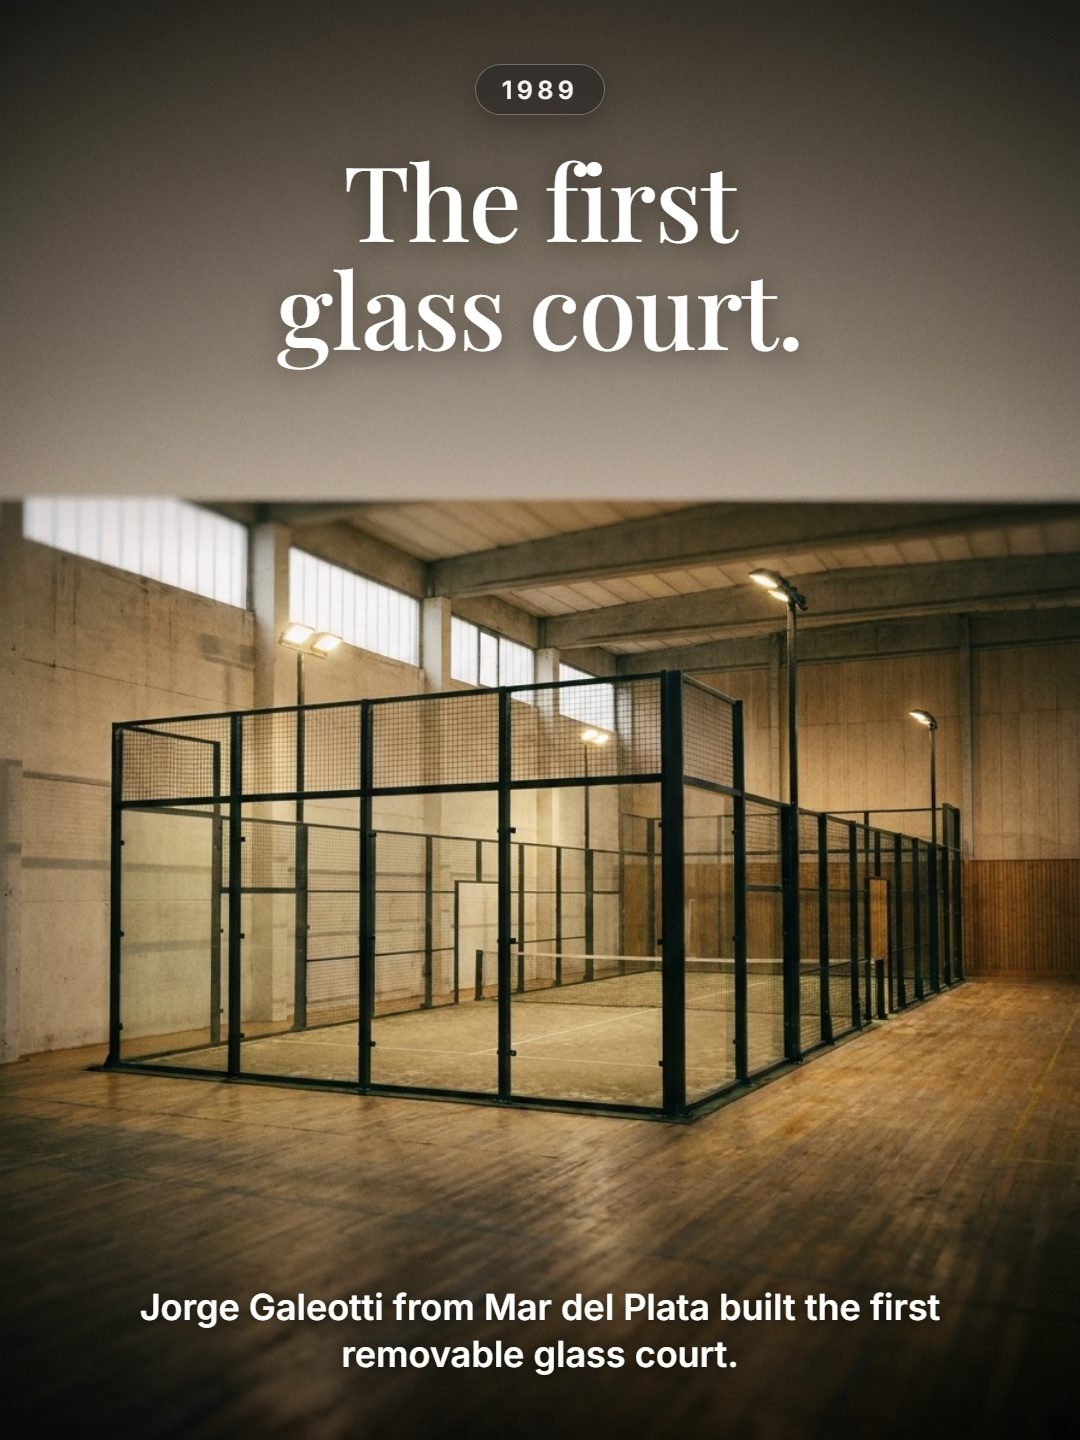
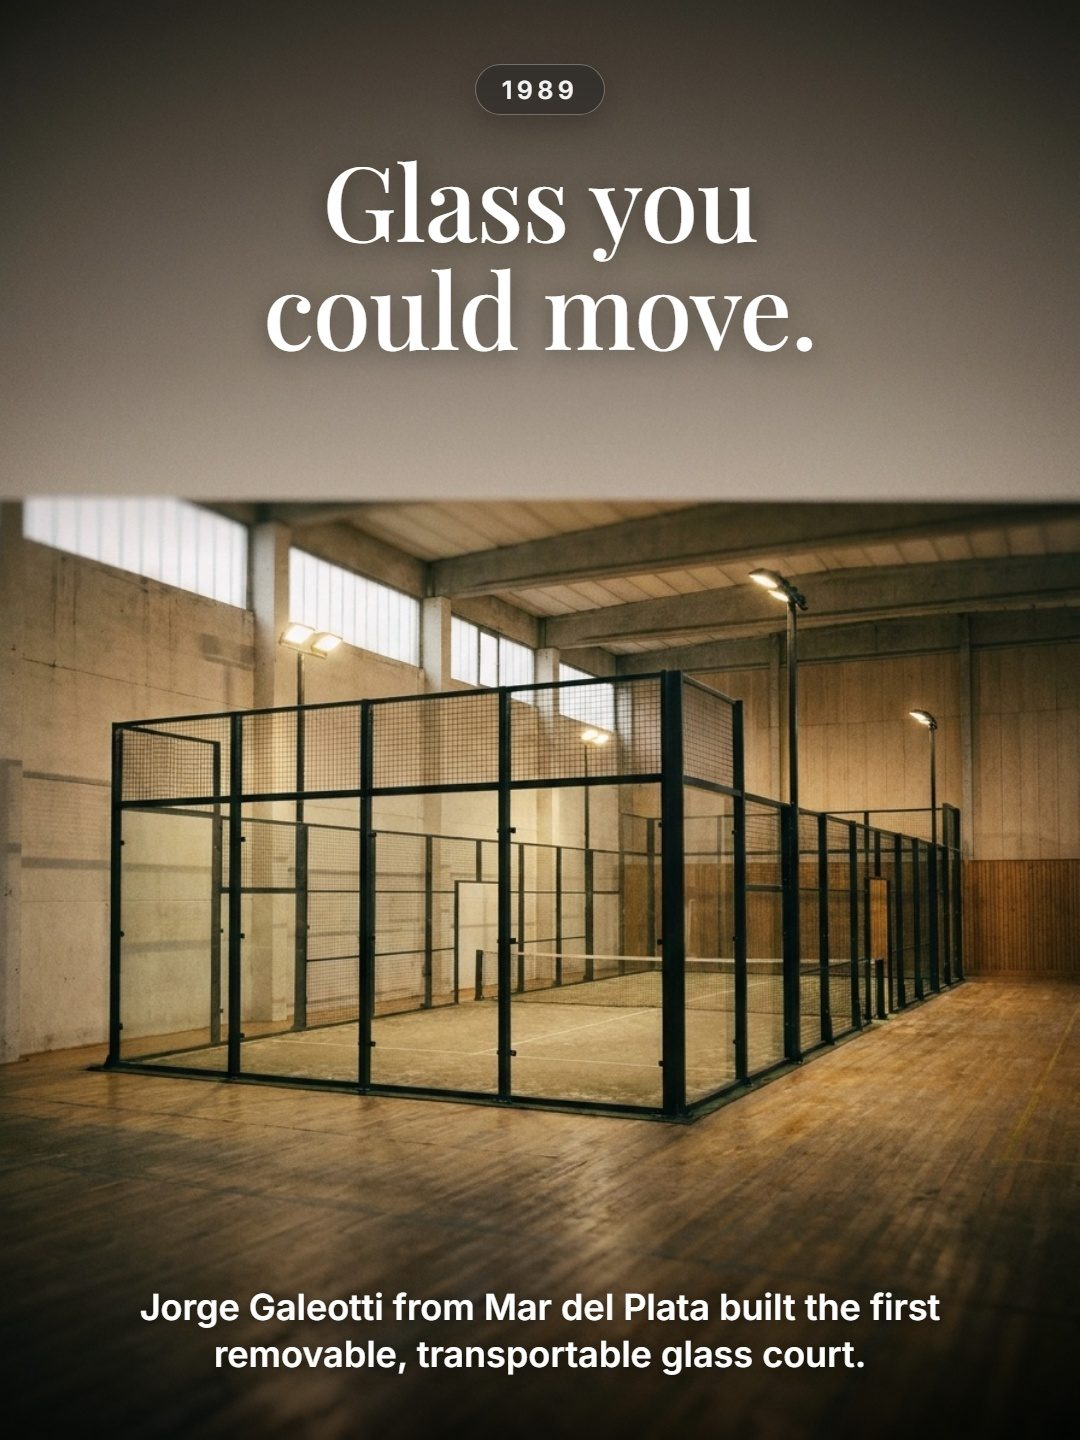
4 neue Taktik-Posts oben (Platzschema): australische Formation, Grundstellungen, Aufschlag und ans Netz, schwächeren Spieler finden; Teil 3: Glas-Court-Titel präzisiert

Changed region(s): [[0.2444, 0.0938, 0.7639, 0.25], [0.1833, 0.9062, 0.7944, 0.9688]]

diff --git a/tools/build_posts.py b/tools/build_posts.py
@@ -23,6 +23,10 @@ SRC = Path(sys.argv[1]) if len(sys.argv) > 1 else Path.home() / 'Desktop' / 'Pos
 
 # (Ordnername, neu?) – oben steht, was zuerst angezeigt wird
 ORDER = [
+    ('Stand on the wrong side on purpose', True),
+    ('Every point starts here', True),
+    ('Your serve is only half the job', True),
+    ('Find the weaker player', True),
     ('The middle ball has an owner', True),
     ('4 words that win you points', True),
     ('40-40 Who receives', True),
